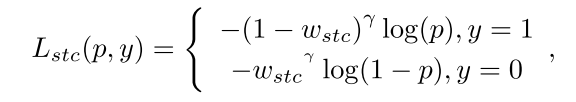
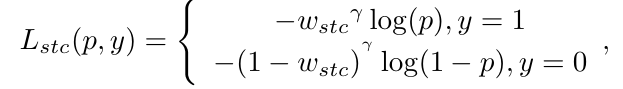
Update stcloss1.png

diff --git a/README.md b/README.md
@@ -1,6 +1,6 @@
 # 🚁 Event-based Tiny Object Detection: A Benchmark Dataset and Baseline
 
-<img src="C:\Users\90597\Desktop\事件相机数据集论文\ICCV_github\imgs\logo.png" style="zoom: 25%;" />
+<img src="imgs\logo.png" style="zoom: 50%;" />
 
 ## 🌟 Abstract
 Small object detection (SOD) in anti-UAV  task is a challenging problem due to the small size of UAVs and complex backgrounds. Traditional frame-based cameras struggle to detect small objects in complex environments due to their low frame rates, limited dynamic range, and data redundancy. Event cameras, with microsecond temporal resolution and high dynamic range, provide a more effective solution for SOD. However, existing event-based object detection datasets  are limited in scale, feature large targets size, and lack diverse backgrounds, making them unsuitable for SOD benchmarks. In this paper, we introduce a Event-based Small object detection (EVSOD) dataset (namely **EV-UAV**), the first large-scale, highly diverse benchmark for anti-UAV tasks. It includes 147 sequences with over **2.3 million event-level annotations,** featuring **extremely small targets** (averaging 6.8 × 5.4 pixels) and **diverse scenarios** such as urban clutter and extreme lighting conditions. Furthermore, based on the observation that small moving targets form continuous curves in spatiotemporal event point clouds, we propose Event based Sparse Segmentation Network (EV-SpSegNet), a novel baseline for event segmentation in point cloud space, along with a Spatiotemporal Correlation (STC) loss that leverages motion continuity to guide the network in retaining target events. Extensive experiments on the EV-UAV dataset demonstrate the superiority of our method and provide a benchmark for future research in EVSOD.
@@ -10,7 +10,7 @@ Small object detection (SOD) in anti-UAV  task is a challenging problem due to t
 ## 📊EV-UAV dataset
 - ### Comparison between event camera and RGB camera
 
-<img src="C:\Users\90597\Desktop\事件相机数据集论文\ICCV_github\imgs\left_top.jpg" style="zoom: 25%;" />
+<img src="imgs\left_top.jpg" style="zoom: 25%;" />
 
 The RGB camera can only capture the objects under normal light, while the event camera  can capture objects under various extreme lighting conditions. And the event camera can capture the continuous motion  trajectory of the small object (shown as the red curve).
 
@@ -129,8 +129,7 @@ The RGB camera can only capture the objects under normal light, while the event 
 Currently, event-based object detection datasets  primarily focus on autonomous driving and general object detection.  There is limited attention given to  datasets that are  exclusively designed for UAV detection. We provide a comprehensive summary of existing datasets, highlighting the scarcity of event-based datasets for UAV object detection.
 
 - ### Benchmark Features and Statistics
-
-<img src="C:\Users\90597\Desktop\事件相机数据集论文\ICCV_github\imgs\datasets.jpg" style="zoom: 25%;" />
+<img src="imgs\datasets.jpg" style="zoom: 25%;" />
 
 EV-UAV contains 147 event sequences with **event-level annotations**, covering **challenging scenarios** like high-brightness and low-light conditions, with **targets** **averaging 1/50 the size in existing datasets**.
 
@@ -186,7 +185,7 @@ Leveraging the spatiotemporal correlation characteristics of moving targets in e
 
 Event based Sparse Segmentation Network (EV-SpSegNet) employs a U-shaped encoder-decoder architecture, integrating three key components: the GDSCA module (Grouped Dilated Sparse Convolution) for multi-scale temporal feature extraction, the Sp-SE module for feature fusion, and the Patch Attention block for voxel downsampling and global context modeling.
 
-<img src="C:\Users\90597\Desktop\事件相机数据集论文\ICCV_github\imgs\framework.png" style="zoom: 67%;" />
+<img src="imgs\framework.png" style="zoom: 67%;" />
 
 
 
@@ -195,7 +194,7 @@ Event based Sparse Segmentation Network (EV-SpSegNet) employs a U-shaped encoder
 
 We introduce a spatiotemporal correlation loss that encourages the network to retain more events with high spatiotemporal correlation while discarding more isolated noise.
 
-<img src="C:\Users\90597\Desktop\事件相机数据集论文\ICCV_github\imgs\stcloss1.png" style="zoom: 67%;" />
+<img src="imgs\stcloss1.png" style="zoom: 67%;" />
 
 <img src="C:\Users\90597\Desktop\事件相机数据集论文\ICCV_github\imgs\stcloss2.png" style="zoom:67%;" />
 
@@ -246,9 +245,7 @@ test.py
 
 
 ---
-## Demo:
 
-放一些数据的可视化东西
 
 
 
@@ -259,30 +256,3 @@ test.py
 The code is based on [HAIS](https://github.com/hustvl/HAIS) and [spconv](https://github.com/traveller59/spconv). 
 
 ---
-## 📚 引用
-If you find this project useful in your research, please consider cite:
-```bibtex
-@article{yourpaper2023,
-  title={Event-Based Drone Object Detection Dataset},
-  author={Your Name, Co-author Name},
-  journal={Journal of Event-Based Vision},
-  year={2023},
-  volume={XX},
-  number={XX},
-  pages={XX--XX}
-}
-```
-
----
-
-## 📜 许可证
-![License Icon](https://via.placeholder.com/50) <!-- 替换为相关图标 -->
-本数据集采用 [CC BY-NC-SA 4.0](https://creativecommons.org/licenses/by-nc-sa/4.0/) 许可证。你可以自由地：
-- **共享**：在任何媒介上复制和分发本数据集。
-- **改编**：修改和构建本数据集。
-
-但必须遵守以下条款：
-- **署名**：必须注明原始作者和来源。
-- **非商业性使用**：不得将本数据集用于商业目的。
-- **相同方式共享**：如果你修改了本数据集，必须以相同的许可证发布。
-
